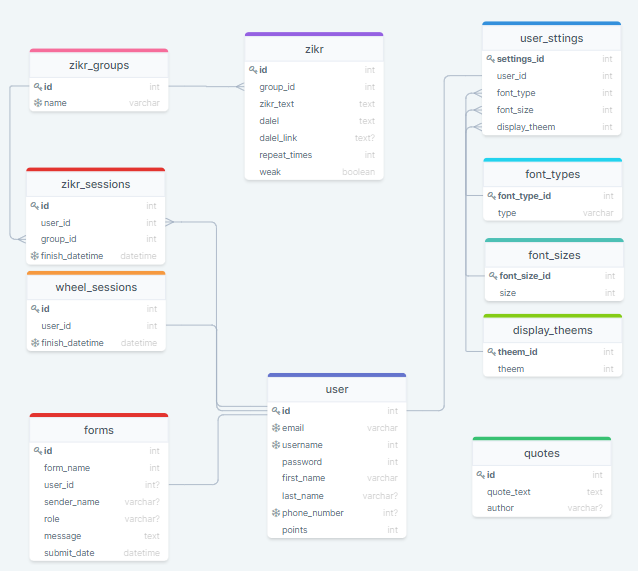
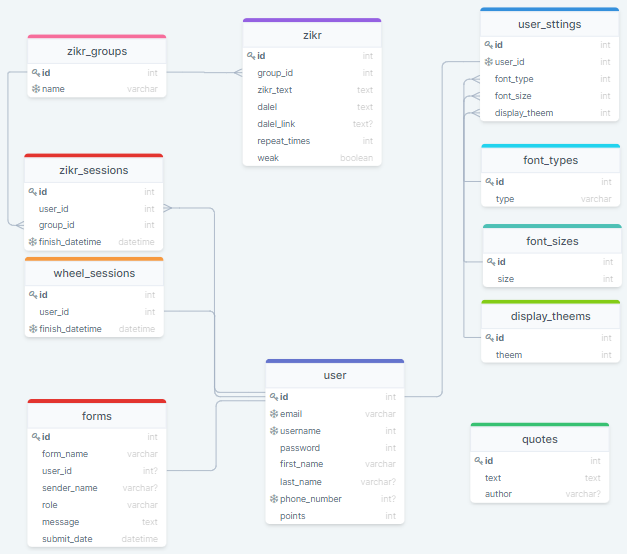
edit photos

diff --git a/docs/zikr.md b/docs/zikr.md
@@ -11,7 +11,7 @@
 | zikr\_text | STRING | A zikr\_text is NOT UNIQUE, REQUIRED |
 | repeat\_times | INT | A repeat\_times is the number of times to repeat zikr. A repeat\_times is NOT UNIQUE, REQUIRED. |
 | dalel | STRING | A dalel is the hadith of the prophet of zikr. A dalel is NOT UNIQUE, REQUIRED. |
-| dalel\_link | STRING | A dalel\_link is where we got dalel. Useful for knowing the source of the dalel. A dalel\_link is NOT UNIQUE, REQUIRED. |
+| dalel\_link | STRING | A dalel\_link is where we got dalel. Useful for knowing the source of the dalel. A dalel\_link is NOT UNIQUE, NOT REQUIRED. |
 | weak | Boolean | Weak is used to indicate the level of authentication of the dalel. Weak is NOT UNIQUE, REQUIRED. |
 
 ## zikr_group
